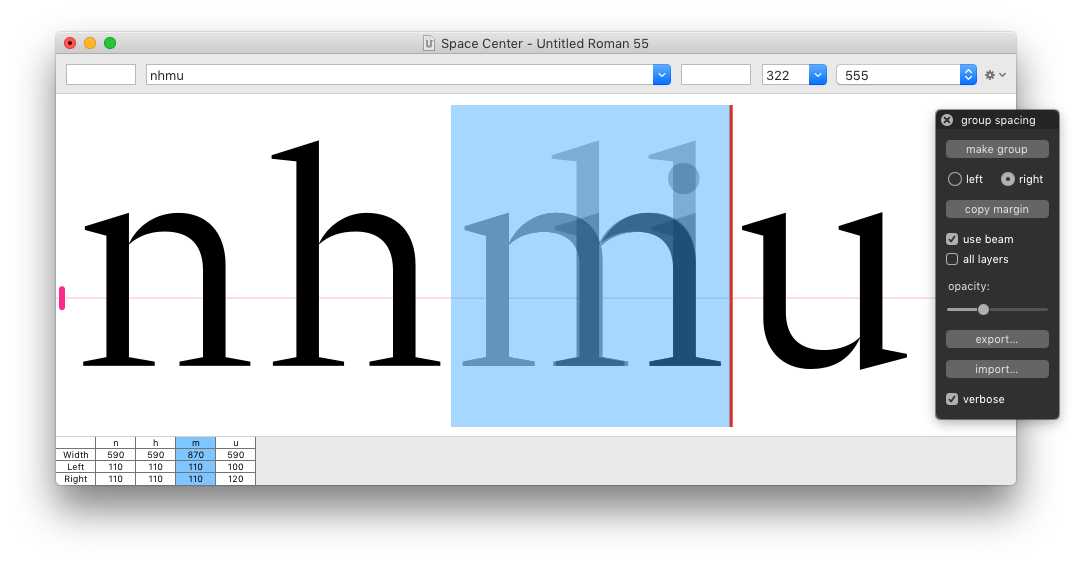
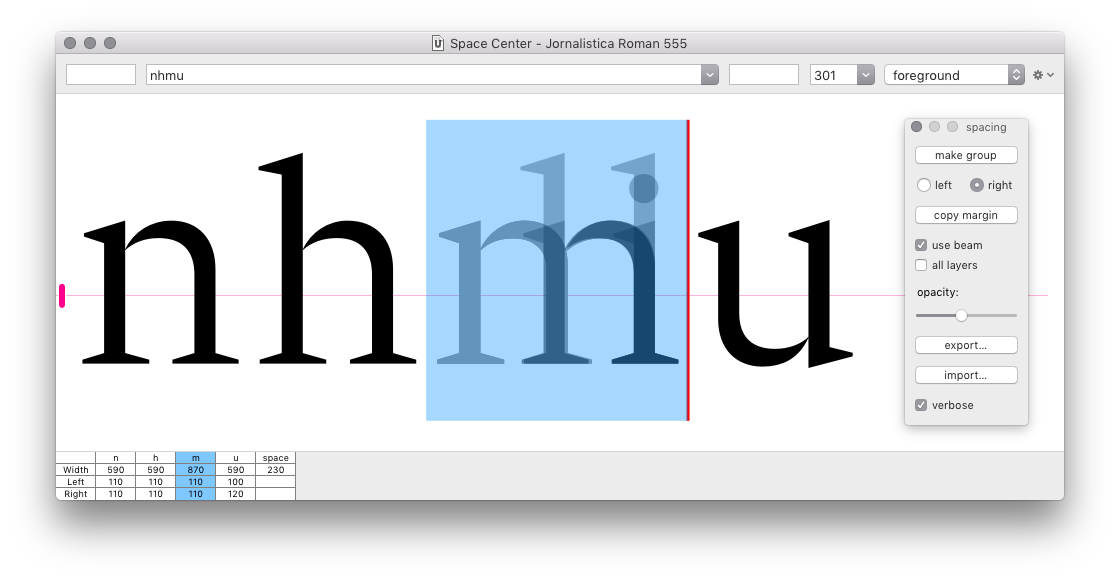
switching to Floating Window with transparent title bar, updating docs & screenhots, touch version number

Changed region(s): [[0.0308, 0.0602, 1.0, 0.7823], [0.0308, 0.7522, 0.9543, 0.8726]]

diff --git a/groupSpacing.roboFontExt/html/index.html b/groupSpacing.roboFontExt/html/index.html
@@ -10,16 +10,16 @@
         <body>
         <h1>Group Spacing</h1>
 <p>A RoboFont extension to enable group spacing in the Space Center.</p>
-<p><img alt="" src="imgs/groupSpacing.png" /></p>
-<h4>define groups</h4>
-<p>create left/right kerning groups using the <a href="http://robofont.com/documentation/workspace/groups-editor/">Groups Editor</a></p>
-<h4>view siblings</h4>
-<p>the selected glyph in <a href="http://robofont.com/documentation/workspace/space-center">Space Center</a> shows all other glyphs in the same left/right kerning group</p>
-<h4>copy margin</h4>
-<p>transfer the left/right margin of the current glyph to all other glyphs in the group</p>
-<p>optionally, measure margins using the beam</p>
-<h4>import / export</h4>
-<p>import and export spacing groups to <code>.groupSpacing</code> files</p>
+<p><img alt="" src="imgs/GroupSpacing.png" /></p>
+<p>Supports importing and exporting spacing groups to <code>.groupSpacing</code> files.</p>
+<h2 id="how-to-use-the-tool">How to use the tool</h2>
+<h3 id="1-define-groups">1. Define groups</h3>
+<p>Create left/right kerning groups using the <a href="http://robofont.com/documentation/workspace/groups-editor/">Groups Editor</a>.</p>
+<h3 id="2-visualize-siblings">2. Visualize siblings</h3>
+<p>Select a glyph in the <a href="http://robofont.com/documentation/workspace/space-center">Space Center</a> and see all other glyphs in the same left/right spacing group.</p>
+<h3 id="3-copy-margins">3. Copy margins</h3>
+<p>Transfer the left/right margin of the current glyph to all other glyphs in the group.</p>
+<p>Optionally, measure margins using the beam.</p>
         </body>
         </html>
         

diff --git a/groupSpacing.roboFontExt/lib/groupSpacingDialog.py b/groupSpacing.roboFontExt/lib/groupSpacingDialog.py
@@ -2,7 +2,7 @@ from importlib import reload
 import groupSpacingLib
 reload(groupSpacingLib)
 
-from vanilla import HUDFloatingWindow, RadioGroup, Button, CheckBox, Slider, TextBox
+from vanilla import FloatingWindow, RadioGroup, Button, CheckBox, Slider, TextBox
 from mojo.events import addObserver, removeObserver
 from mojo.drawingTools import *
 from mojo.roboFont import CurrentGlyph, CurrentFont
@@ -30,7 +30,7 @@ class GroupSpacingWindow(BaseWindowController):
         width = 123
         height  = lineHeight * 6 + buttonHeight * 4 + padding * 9
 
-        self.w = HUDFloatingWindow((width, height), title='group spacing')
+        self.w = FloatingWindow((width, height), title='spacing')
 
         x = y = padding
         self.w.makeGroupButton = Button(
@@ -107,6 +107,7 @@ class GroupSpacingWindow(BaseWindowController):
 
         addObserver(self, "drawGlyphsInGroup", "spaceCenterDraw")
 
+        self.w.getNSWindow().setTitlebarAppearsTransparent_(True)
         self.w.open()
 
     # dynamic attrs.
@@ -281,4 +282,3 @@ class GroupSpacingWindow(BaseWindowController):
             fill(*color)
             drawGlyph(g)
             restore()
-

diff --git a/source/code/groupSpacingDialog.py b/source/code/groupSpacingDialog.py
@@ -2,7 +2,7 @@ from importlib import reload
 import groupSpacingLib
 reload(groupSpacingLib)
 
-from vanilla import HUDFloatingWindow, RadioGroup, Button, CheckBox, Slider, TextBox
+from vanilla import FloatingWindow, RadioGroup, Button, CheckBox, Slider, TextBox
 from mojo.events import addObserver, removeObserver
 from mojo.drawingTools import *
 from mojo.roboFont import CurrentGlyph, CurrentFont
@@ -30,7 +30,7 @@ class GroupSpacingWindow(BaseWindowController):
         width = 123
         height  = lineHeight * 6 + buttonHeight * 4 + padding * 9
 
-        self.w = HUDFloatingWindow((width, height), title='group spacing')
+        self.w = FloatingWindow((width, height), title='spacing')
 
         x = y = padding
         self.w.makeGroupButton = Button(
@@ -107,6 +107,7 @@ class GroupSpacingWindow(BaseWindowController):
 
         addObserver(self, "drawGlyphsInGroup", "spaceCenterDraw")
 
+        self.w.getNSWindow().setTitlebarAppearsTransparent_(True)
         self.w.open()
 
     # dynamic attrs.
@@ -281,4 +282,3 @@ class GroupSpacingWindow(BaseWindowController):
             fill(*color)
             drawGlyph(g)
             restore()
-

diff --git a/build.py b/build.py
@@ -18,7 +18,7 @@ B.name = "GroupSpacing"
 B.developer = 'Gustavo Ferreira'
 B.developerURL = 'http://hipertipo.com'
 B.icon = os.path.join(basePath, 'icon.png')
-B.version = '0.3.1'
+B.version = '0.3.2'
 B.launchAtStartUp = False
 B.mainScript = ''
 B.html = True

diff --git a/README.md b/README.md
@@ -3,25 +3,28 @@ Group Spacing
 
 A RoboFont extension to enable group spacing in the Space Center.
 
-![](imgs/groupSpacing.png)
+![](imgs/GroupSpacing.png)
 
-#### define groups
+Supports importing and exporting spacing groups to `.groupSpacing` files.
 
-create left/right kerning groups using the [Groups Editor]
 
-#### view siblings
+How to use the tool
+-------------------
 
-the selected glyph in [Space Center] shows all other glyphs in the same left/right kerning group
+### 1. Define groups
 
-#### copy margin
+Create left/right kerning groups using the [Groups Editor].
 
-transfer the left/right margin of the current glyph to all other glyphs in the group
+### 2. Visualize siblings
 
-optionally, measure margins using the beam
+Select a glyph in the [Space Center] and see all other glyphs in the same left/right spacing group.
 
-#### import / export
+### 3. Copy margins
 
-import and export spacing groups to `.groupSpacing` files
+Transfer the left/right margin of the current glyph to all other glyphs in the group.
+
+Optionally, measure margins using the beam.
+
 
 [Groups Editor]: http://robofont.com/documentation/workspace/groups-editor/
 [Space Center]: http://robofont.com/documentation/workspace/space-center

diff --git a/groupSpacing.roboFontExt/html/index.md b/groupSpacing.roboFontExt/html/index.md
@@ -3,25 +3,28 @@ Group Spacing
 
 A RoboFont extension to enable group spacing in the Space Center.
 
-![](imgs/groupSpacing.png)
+![](imgs/GroupSpacing.png)
 
-#### define groups
+Supports importing and exporting spacing groups to `.groupSpacing` files.
 
-create left/right kerning groups using the [Groups Editor]
 
-#### view siblings
+How to use the tool
+-------------------
 
-the selected glyph in [Space Center] shows all other glyphs in the same left/right kerning group
+### 1. Define groups
 
-#### copy margin
+Create left/right kerning groups using the [Groups Editor].
 
-transfer the left/right margin of the current glyph to all other glyphs in the group
+### 2. Visualize siblings
 
-optionally, measure margins using the beam
+Select a glyph in the [Space Center] and see all other glyphs in the same left/right spacing group.
 
-#### import / export
+### 3. Copy margins
 
-import and export spacing groups to `.groupSpacing` files
+Transfer the left/right margin of the current glyph to all other glyphs in the group.
+
+Optionally, measure margins using the beam.
+
 
 [Groups Editor]: http://robofont.com/documentation/workspace/groups-editor/
 [Space Center]: http://robofont.com/documentation/workspace/space-center

diff --git a/source/docs/index.md b/source/docs/index.md
@@ -3,25 +3,28 @@ Group Spacing
 
 A RoboFont extension to enable group spacing in the Space Center.
 
-![](imgs/groupSpacing.png)
+![](imgs/GroupSpacing.png)
 
-#### define groups
+Supports importing and exporting spacing groups to `.groupSpacing` files.
 
-create left/right kerning groups using the [Groups Editor]
 
-#### view siblings
+How to use the tool
+-------------------
 
-the selected glyph in [Space Center] shows all other glyphs in the same left/right kerning group
+### 1. Define groups
 
-#### copy margin
+Create left/right kerning groups using the [Groups Editor].
 
-transfer the left/right margin of the current glyph to all other glyphs in the group
+### 2. Visualize siblings
 
-optionally, measure margins using the beam
+Select a glyph in the [Space Center] and see all other glyphs in the same left/right spacing group.
 
-#### import / export
+### 3. Copy margins
 
-import and export spacing groups to `.groupSpacing` files
+Transfer the left/right margin of the current glyph to all other glyphs in the group.
+
+Optionally, measure margins using the beam.
+
 
 [Groups Editor]: http://robofont.com/documentation/workspace/groups-editor/
 [Space Center]: http://robofont.com/documentation/workspace/space-center
